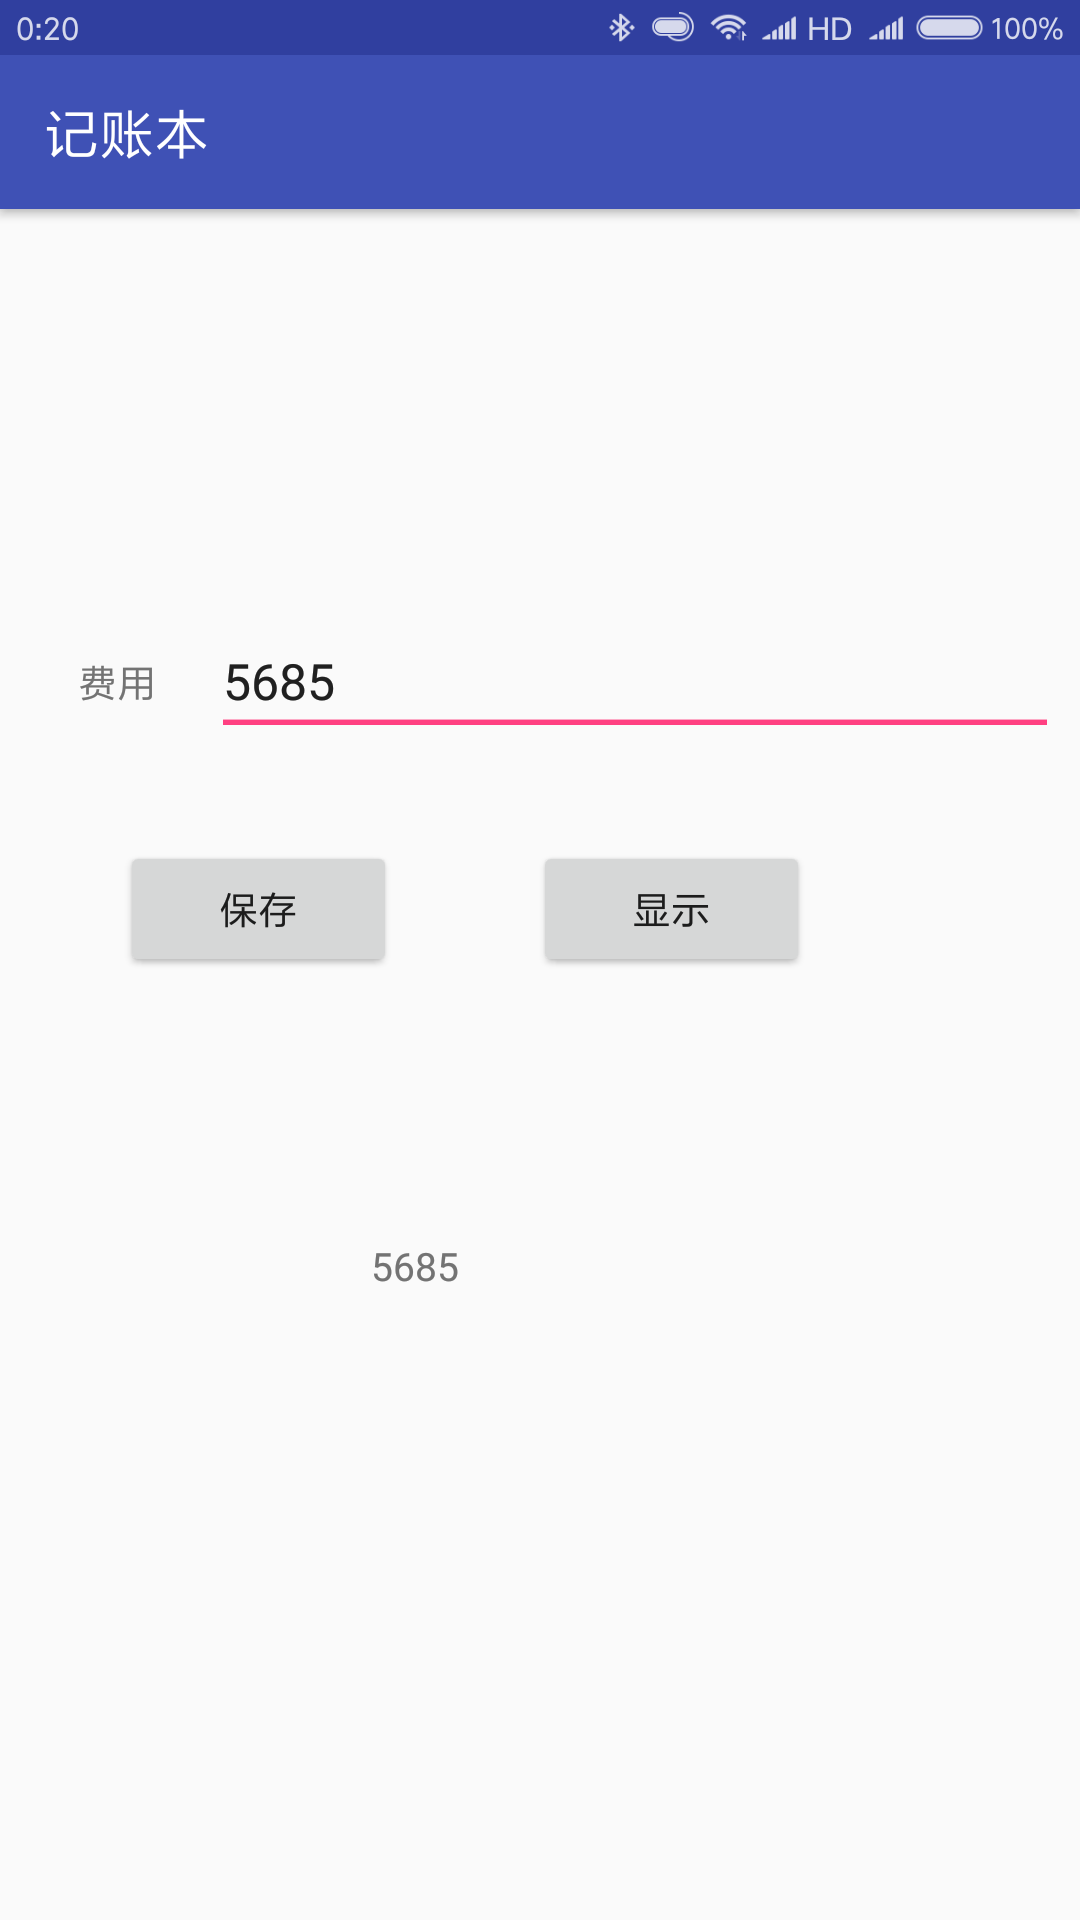
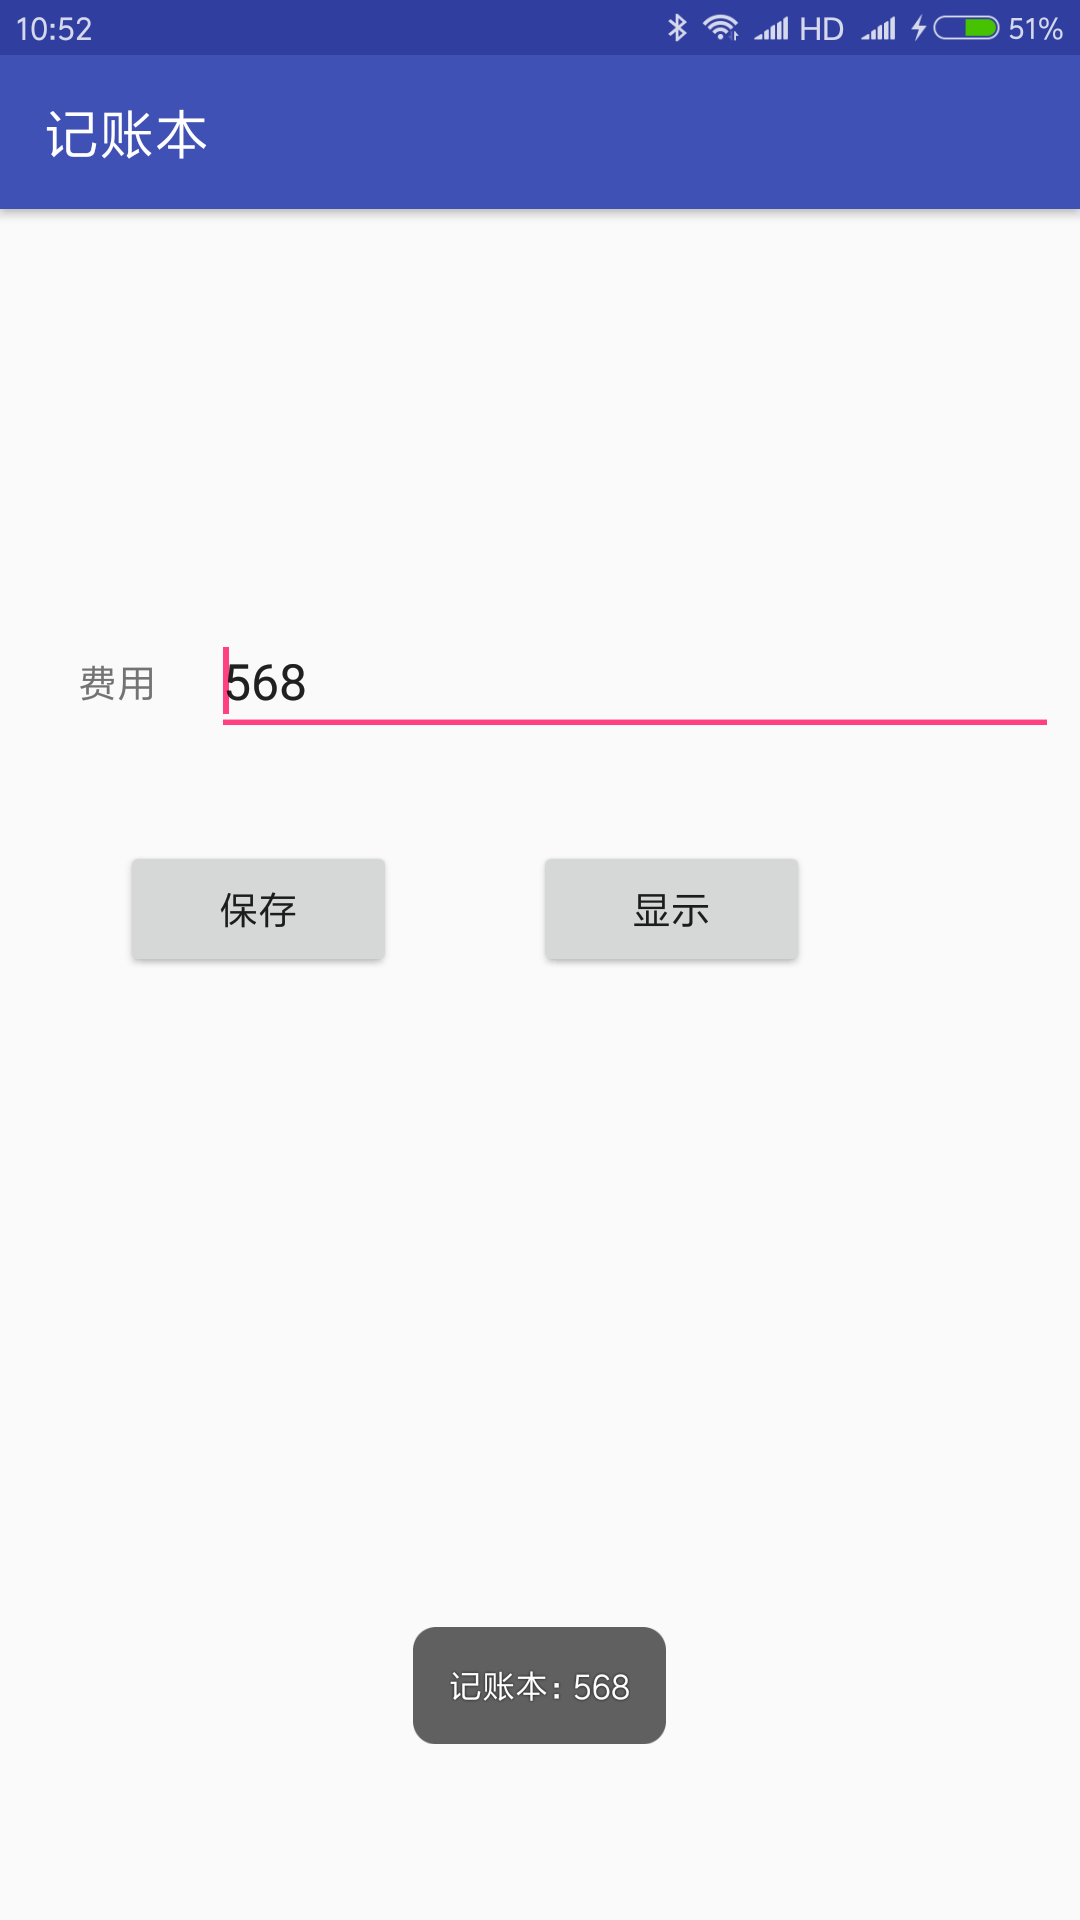
#5 #1349第五次实验

diff --git a/com1614080901229/app3/src/main/java/edu/hzuapps/androidlabs/com1614080901229/com1614080901229Activity2.java b/com1614080901229/app3/src/main/java/edu/hzuapps/androidlabs/com1614080901229/com1614080901229Activity2.java
@@ -19,7 +19,6 @@ public class com1614080901229Activity2 extends AppCompatActivity {
     private EditText et;
     private Button btnSave;
     private  Button btn1;
-    private TextView txv;
 
     @Override
     protected void onCreate(Bundle savedInstanceState) {
@@ -29,7 +28,6 @@ public class com1614080901229Activity2 extends AppCompatActivity {
         et = findViewById(R.id.et);
         btnSave=findViewById(R.id.btnSave);
         btn1=findViewById(R.id.btn1);
-        txv=findViewById(R.id.txv);
 
         readSavedText();
 
@@ -43,15 +41,13 @@ public class com1614080901229Activity2 extends AppCompatActivity {
 
             @Override
             public void onClick(View v) {
-                readText();
+                readSavedText();
             }
         });
 
     }
 
-    private void readText(){
-        txv.setText(et.getText().toString());
-    }
+
     private void readSavedText() {
 
         try {
@@ -61,6 +57,7 @@ public class com1614080901229Activity2 extends AppCompatActivity {
             is.close();
             String str = new String(bytes, "utf-8");
             et.setText(str);
+            Toast.makeText(this,str,Toast.LENGTH_SHORT).show();
         } catch (Exception e) {
             e.printStackTrace();
         }
